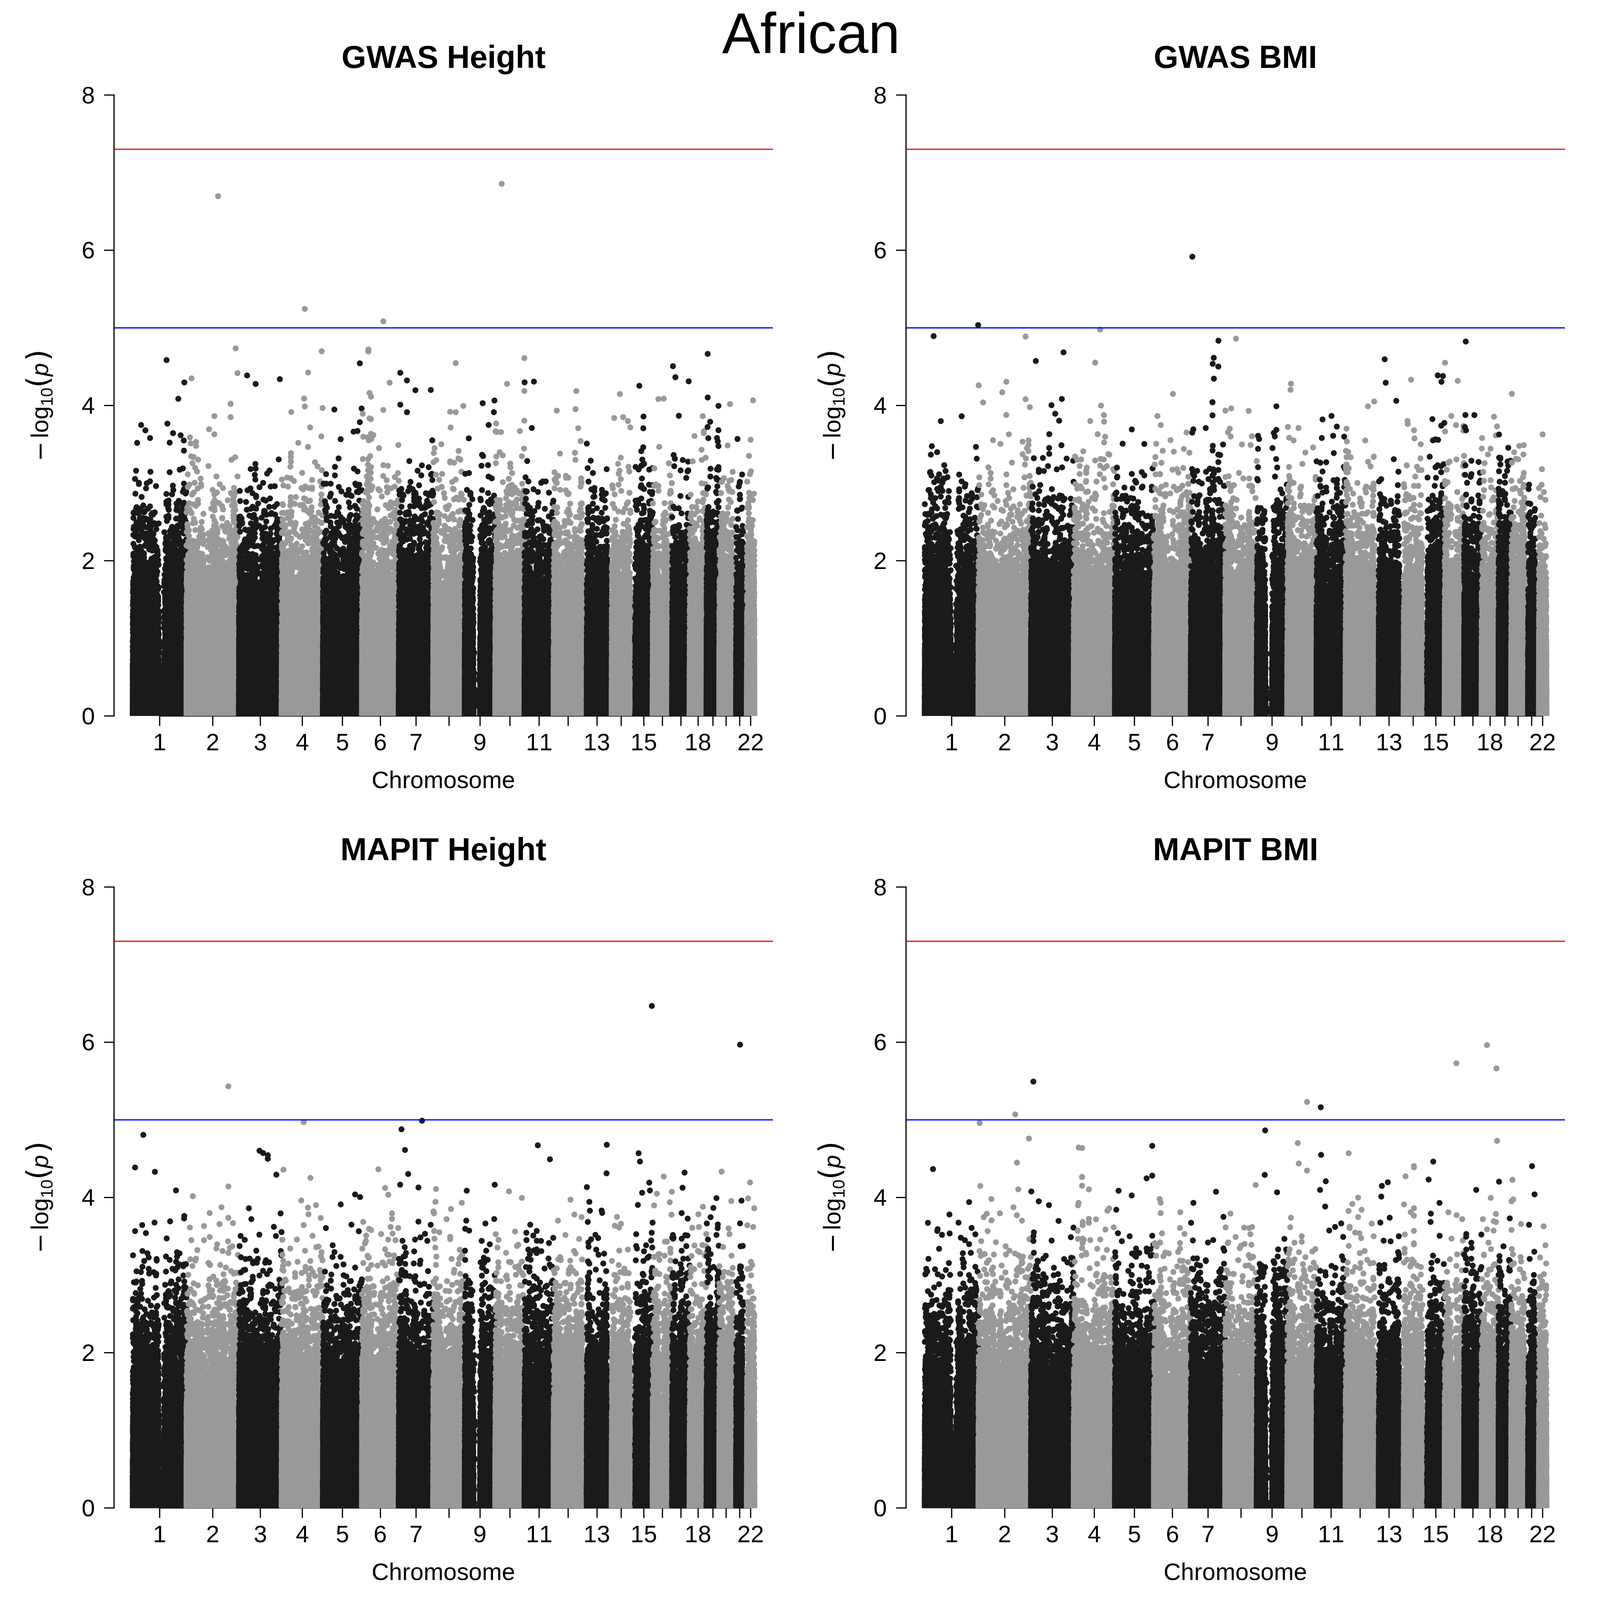
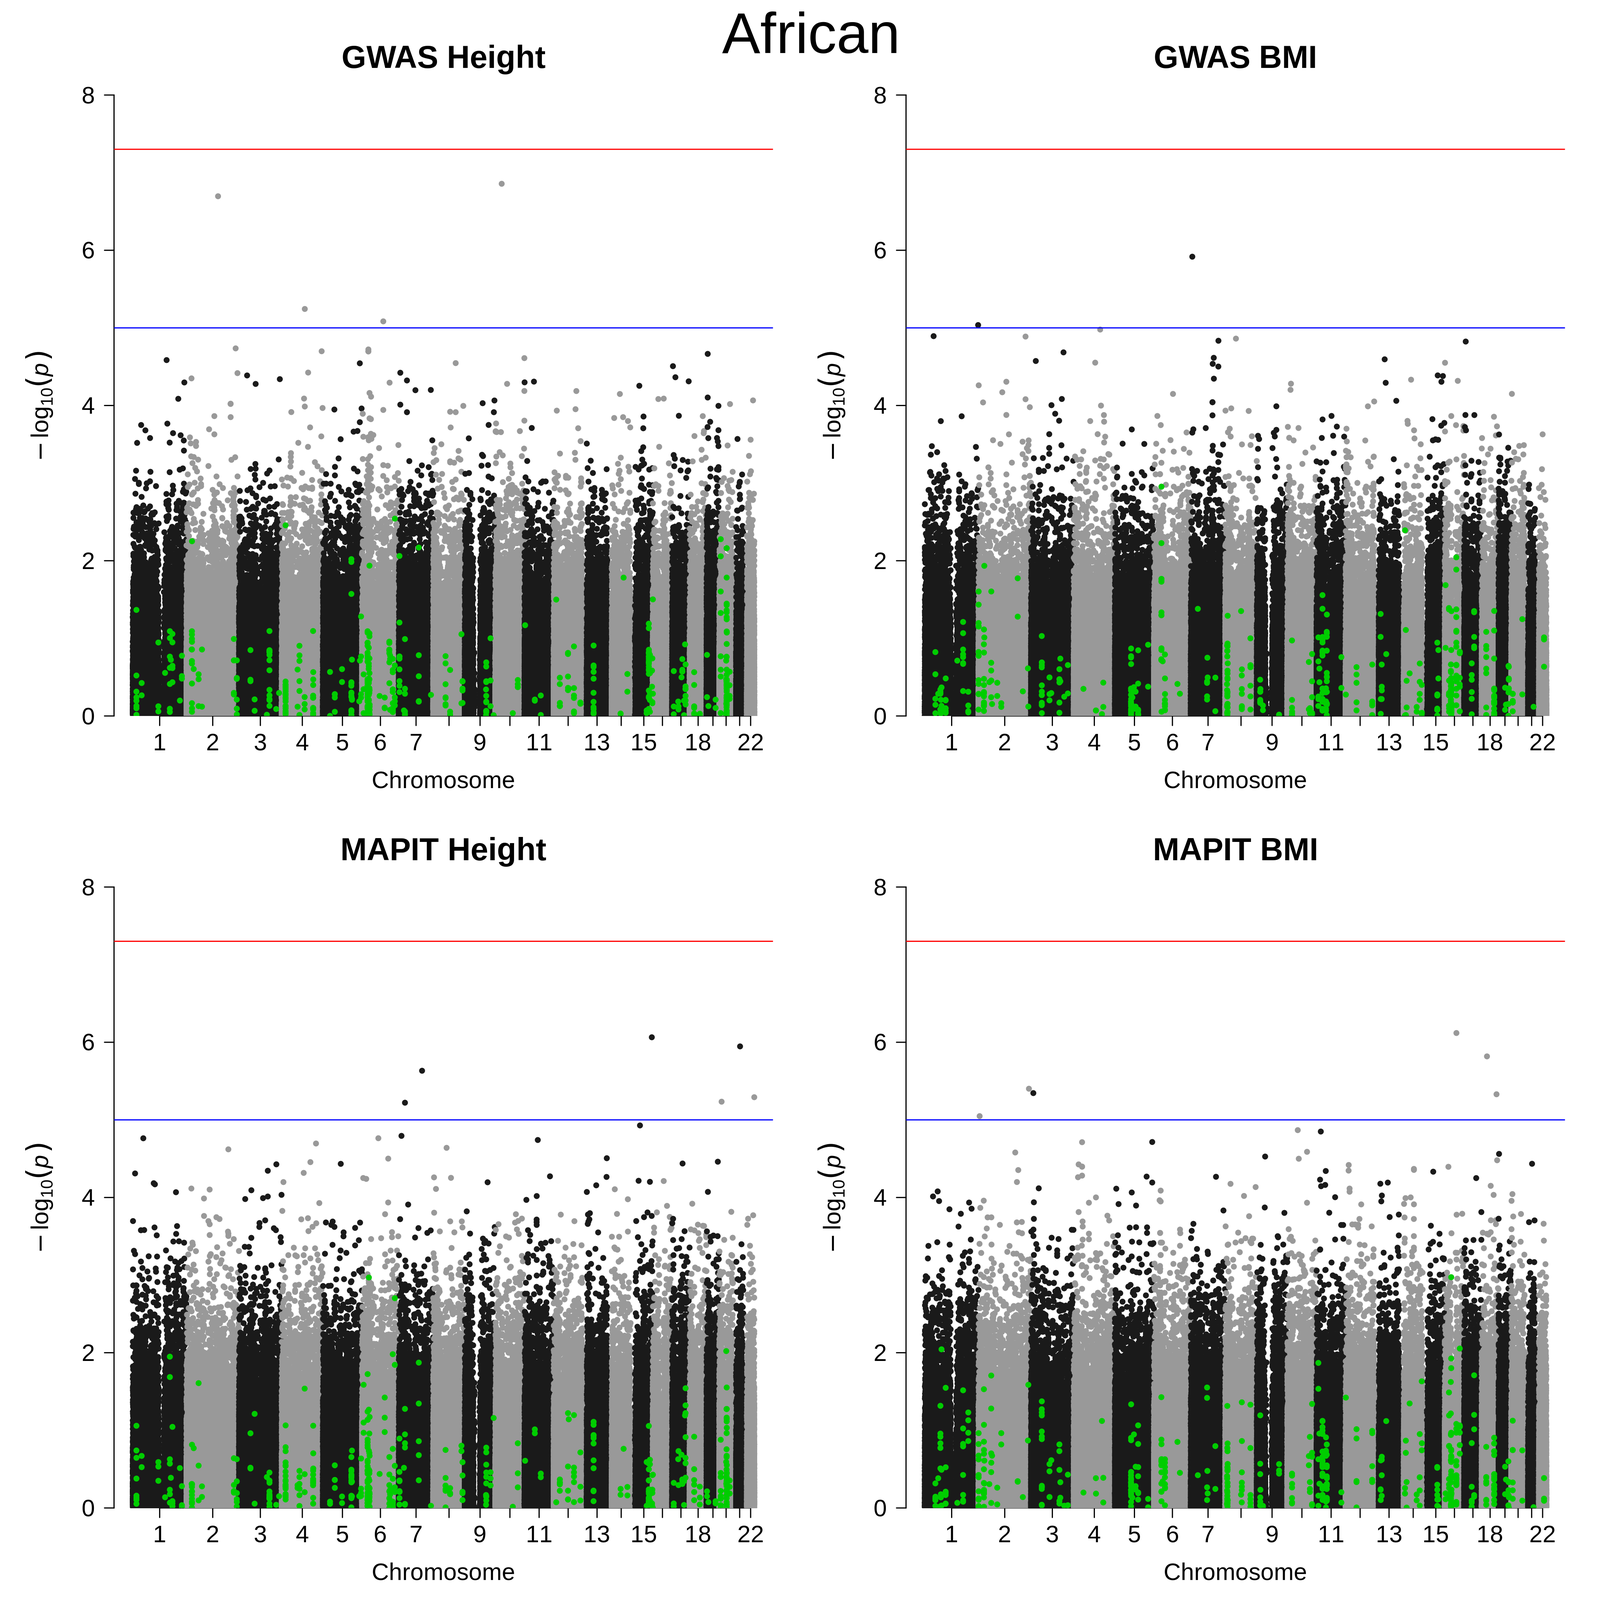
general updates (figures, comments)

diff --git a/Main.tex b/Main.tex
@@ -199,7 +199,7 @@ Running MAPIT on our four population subsets for both height and BMI, we find th
 \label{InterPath-Main-Figure-MAPIT}
 \end{figure}
 
-Running a GWAS of height and BMI on each of our population subsets with PLINK, we once again find zero genome-wide significant hit (Figure \ref{InterPath-Main-Figure-GWAS}). And further similarly to before, we also find a handful of marginally significant variants. More interestingly however, we now ask how similar the MAPIT and GWAS results are. And indeed, comparing the two sets of genome-wide analyzes, we see a wide range of different genetic architecture patterns being represented (Figure \ref{InterPath-Main-Figure-MAPITvsGWAS} \& Supplementary Figure \ref{} \textcolor{red}{this will be all the population results}). Focusing on the African subset and height, we find XX SNPs that are only marginally significant in MAPIT, XX SNPs that are only marginally significant in the GWAS, and 0 SNPs that are marginally significant in both tests. Despite the lack of power to identify genome-wide significant results, we still see a strong representation of the partition of additive and epistatic effects in our results. 
+Running a GWAS of height and BMI on each of our population subsets with PLINK, we find only one genome-wide significant hit (height in British.Ran4000; Figure \ref{InterPath-Main-Figure-GWAS}). And further similarly to before, we also find a handful of marginally significant variants. More interestingly however, we now ask how similar the MAPIT and GWAS results are. And indeed, comparing the two sets of genome-wide analyzes, we see a wide range of different genetic architecture patterns being represented (Figure \ref{InterPath-Main-Figure-MAPITvsGWAS} \& Supplementary Figure \ref{} \textcolor{red}{this will be all the population results}). Focusing on the African subset and height, we find XX SNPs that are only marginally significant in MAPIT, XX SNPs that are only marginally significant in the GWAS, and 0 SNPs that are marginally significant in both tests. Despite the lack of power to identify genome-wide significant results, we still see a strong representation of the partition of additive and epistatic effects in our results. 
 
 \begin{figure}[htbp]
 \centering
@@ -210,21 +210,20 @@ Running a GWAS of height and BMI on each of our population subsets with PLINK, w
 
 \begin{figure}[htbp]
 \centering
-\includegraphics[scale=1]{Images/Main/InterPath_Main_Figure_MAPITvsGWAS_vs1.png}
-\caption[TBD]{\textbf{MAPIT vs. GWAS Results}.}
+\includegraphics[scale=1]{Images/Main/InterPath_Main_Figure_MAPITvsGWAS_vs1_edits.png}
+\caption[TBD]{\textbf{MAPIT vs. GWAS Results}. Green dots are the 500 SNPs that have the most significant GIANT/UKB p-values.}
 \label{InterPath-Main-Figure-MAPITvsGWAS}
 \end{figure}
 
-\textcolor{red}{NOTE: below is what we were expecting for these results. But as you can see, the GIANT height/bmi results don't align in the way were anticipating. They are more spread out between height and BMI. I have checked though that the GIANT p-values of these top 500 SNPs are more correalted with our GWAS p-values than our MAPIT p-values (like ~.17 vs. .05). 
+\textcolor{red}{(NOTE: below is what we were expecting for these results. But as you can see, the GIANT height/bmi results don't align in the way were anticipating. They are more spread out between height and BMI. I have checked though that the GIANT p-values of these top 500 SNPs are more correalted with our GWAS p-values than our MAPIT p-values (like ~.17 vs. .05). 
+I think one alternative approach to this section is to angle instead as: 'we do not have power to even see a difference in GWAS vs. MAPIT as we were anticipating, thus indicating our real need to increase power. Hence, we moved forward with a method that we believed was going to accomplish that').}
 
-I think one alternative approach to this section is to angle instead as: 'we do not have power to even see a difference in GWAS vs. MAPIT as we were anticipating, thus indicating our real need to increase power. Hence, we moved forward with a method that we believed was going to accomplish that').
-}
-To help further get a sense of whether these results are revealing patterns in true biology, we also annotated the top 500 SNPs with the most significant height and BMI GWAS $p$-values from the 2018 GIANT and UKB meta-analysis \ref{Yengo2018} in both our GWAS and MAPIT results. As expected, these 500 SNPs are heavily represented among the tail end of the most significant GWAS results, but maybe less expected is just how insignificant these SNPs appear on the MAPIT list of top results (\textcolor{red}{Supplementary Table \ref{} -- listing differences in ranking of these 20 SNPs between GWAS and MAPIT}). In fact looking across the genome it is easy to see how different the relative ranking of SNPs are between the GWAS and MAPIT results (Figures \ref{InterPath-Main-Figure-MAPITvsGWAS-Manhattan}C \& \ref{InterPath-Main-Figure-MAPITvsGWAS-Manhattan}D). It is clear that even with our limited sample sizes, differences in the trends of importance of additive versus epistatic signals can be observed among marginally significant SNPs.  
+To help further get a sense of whether these results are revealing patterns in true biology, we also annotated the top 500 SNPs with the most significant height and BMI GWAS $p$-values from the 2018 GIANT and UKB meta-analysis \ref{Yengo2018} in both our GWAS and MAPIT results. As expected, these 500 SNPs are heavily represented among the tail end of the most significant GWAS results, but maybe less expected is just how insignificant these SNPs appear on the MAPIT list of top results (\textcolor{red}{Supplementary Table \ref{} -- listing differences in ranking of these 500 SNPs between GWAS and MAPIT}). In fact looking across the genome it is easy to see how different the relative ranking of SNPs are between the GWAS and MAPIT results (Figures \ref{InterPath-Main-Figure-MAPITvsGWAS-Manhattan}D \& \ref{InterPath-Main-Figure-MAPITvsGWAS-Manhattan}E). It is clear that even with our limited sample sizes, differences in the trends of importance of additive versus epistatic signals can be observed among marginally significant SNPs.  
 
 \begin{figure}[htbp]
 \centering
 \includegraphics[scale=.35]{Images/Main/InterPath_Main_Figure_MAPITvsGWAS_Manhattan_vs1.png}
-\caption[TBD]{\textbf{MAPIT \& GWAS Manhattan Plots}. \textcolor{red}{will be just height, MAPIT on top, GWAS on bottom, each plot wider}}
+\caption[TBD]{\textbf{MAPIT \& GWAS Manhattan Plots}. \textcolor{red}{will be just height, MAPIT on top (D), GWAS on bottom (E), each plot wider. Green dots are the 500 SNPs that have the most significant GIANT/UKB p-values.}}
 \label{InterPath-Main-Figure-MAPITvsGWAS-Manhattan}
 \end{figure}
 
@@ -250,7 +249,7 @@ where now R is a new random effects term that represents our new group of SNPs R
 
 Beyond extending our marginal epistasis model, we also expanded the number of UKB data subsets we analyzed given our encouraging results at the single SNP level. Specifically, we added UKB subsets consisting of Chinese, Pakistani, and Irish ancestry, as well as a second random subset of British individuals representing a larger sample size of close to 10,000 individuals. Both the Irish and new, second British subsets represent large sample size subsets to test how our model performs as sample size increases. Lastly, we chose to analyze the KEGG and REACTOME pathways available from the MSigDB \citep{Liberzon2011} due to their coverage of a wide range of biological processes. 
 
-Running InterPath on our UKB subsets across height and BMI, we find a major increase in our power to detect marginal epistasis. In total across each population subset, phenotype, and pathway database combination, we identified XXX significant genetic interactions between a pathway and the remaining genomic background (Figure \ref{InterPath-Main-Figure-Barplots} and Supplementary Table \ref{}; $p$-value significance thresholds were determined using Bonferroni multiple testing correction based on the number of pathways tested per analysis). We see both variation in our ability to detect marginal epistasis across our population subsets as well as a much stronger ability to pick up signals in our African subset. Additionally, conducting an analysis run with permuted phenotypes shows that InterPath behaves as expected under the null (Supplementary Figures \ref{InterPath-Supp-Figure-QQPlots-KEGG} \& \ref{InterPath-Supp-Figure-pValHists}), and we observe FDR estimates ranging from 0 to XX across our different ancestry, phenotype, and pathway database combinations (Supplementary Tables \ref{InterPath-Supp-Figure-FDR-AllPops} \textcolor{red}{this will be a table}).
+Running InterPath on our UKB subsets across height and BMI, we find a major increase in our power to detect marginal epistasis. In total across each population subset, phenotype, and pathway database combination, we identified XXX significant genetic interactions between a pathway and the remaining genomic background (Figure \ref{InterPath-Main-Figure-Barplots} and \textcolor{red}{Supplementary Table \ref{} -- idea is tables of every significant pathway for each ancestry with some additional information, like number of genes and snps used in each pathway}; $p$-value significance thresholds were determined using Bonferroni multiple testing correction based on the number of pathways tested per analysis). We see both variation in our ability to detect marginal epistasis across our population subsets as well as a much stronger ability to pick up signals in our African subset. Additionally, conducting an analysis run with permuted phenotypes shows that InterPath behaves as expected under the null (Supplementary Figures \ref{InterPath-Supp-Figure-QQPlots-KEGG} \& \ref{InterPath-Supp-Figure-pValHists}), and we observe FDR estimates ranging from 0 to XX across our different ancestry, phenotype, and pathway database combinations (Supplementary Tables \ref{InterPath-Supp-Figure-FDR-AllPops} \textcolor{red}{this will be a table}).
 
 \begin{figure}[htbp]
 \centering
@@ -270,16 +269,9 @@ Looking at the specific pathways that we observe as having significant evidence 
 \label{InterPath-Main-Figure-Heatplots-KEGG}
 \end{figure}
 
-\begin{figure}[htbp]
-\centering
-\includegraphics[scale=.15]{Images/Main/InterPath_Main_PopCompDotPlots_African_vs1.png}
-\caption[]{\textbf{InterPath Cross-Population KEGG $p$-value Comparisons: African}. Shown are comparisons of each population subset's InterPath $p$-value for Height and BMI in KEGG against the African subset's InterPath $p$-values. On the $x$-axis are the African subset's observed -$\log_{10}$ $p$-value and on the $y$-axis is the other population's observed -$\log_{10}$ $p$-value. Dotted red lines represent Bonferroni-corrected $p$-value thresholds for each population/phenotype combination.}
-\label{InterPath-Main-Figure-PopCompDotPlots}
-\end{figure}
+As previously mentioned, we observe that genome-wide significant pathways across subsets tend to be the pathways with the largest numbers of SNPs. While this is not surprising given that these are the pathways which potentially have the most power to identify a positive signal, we only have a limited number of these types of pathways to compare against one another; it is unclear if these particular pathways represent interesting biology specific to our complex traits or are moreso indicative of there being widespread, but indiscriminate, epistasis across the genome. One approach to decouple significant pathways from having a large number of SNPs is to simply look at the collection of top pathways with the least number of SNPs. For example, we observe XX number of pathways in the African BMI REACTOME analysis that included less than 1000 SNPs. To identify whether there are common biological underpinnings across these pathways, we first looked at whether any groups of genes were enriched across these pathways. And indeed, we observe for many genes that are highly represented across these pathways, that they are significantly enriched (\textcolor{red}{Supplementary Table XX -- table with a list of these genes}).
 
-As previously mentioned, we observe that genome-wide significant pathways across subsets tend to be the pathways with the largest numbers of SNPs. While this is not surprising given that these are the pathways which potentially have the most power to identify a positive signal, we only have a limited number of these types of pathways to compare against one another; it is unclear if these particular pathways represent interesting biology specific to our complex traits or are moreso indicative of there being widespread, but indiscriminate, epistasis across the genome. One approach to decouple significant pathways from having a large number of SNPs is to simply look at the collection of top pathways with the least number of SNPs. For example, we observe XX number of pathways in the African BMI REACTOME analysis that included less than 1000 SNPs. To identify whether there are common biological underpinnings across these pathways, we first looked at whether any groups of genes were enriched across these pathways. And indeed, we observe for many genes that are highly represented across these pathways, that they are significantly enriched (Supplementary Table XX).
-
-However, the hypergeometric test that underlies these enrichment results assumes independence between pathways, and we know that to not be the case. To get a better sense of what our expectations for the results should be, we instead reran these analyses using the full set of significant pathways, not just those with SNP counts below 1000. Our hypothesis is that if the full set of results are confounded by some pathways just having many more SNPs than real biological signals, the noise-to-signal ratio should get worse for the genes that represented true biology. And indeed when we rerun this analysis, we observe for a specific group of genes, those related to the proteasome complex, that their enrichment $p$-values become less significant going from the more refined set of smaller significant pathways to the more general set of total significant pathways. These genes represent XXX and XXX of the proteasome complex, a catalytic protein structure that is essential to the ubiquitination degradation pathway. Interestingly, the proteasome may be a reasonable candidate for having biologically important genetic interactions with the rest of the genome -- it is likely to be involved with a large number of distinct biological processes, though always in the same capacity. It is possibly unsurprising then that we find this gene enrichment in BMI and not height, since metabolism inherently involves the degradation of molecules. 
+However, the hypergeometric test that underlies these enrichment results assumes independence between pathways, and we know that to not be the case. To get a better sense of what our expectations for the results should be, we instead reran these analyses using the full set of significant pathways, not just those with SNP counts below 1000. Our hypothesis is that if the full set of results are confounded by some pathways just having many more SNPs than real biological signals, the noise-to-signal ratio should get worse for the genes that represented true biology. And indeed when we rerun this analysis, we observe for a specific group of genes, those related to the proteasome complex, that their enrichment $p$-values become less significant going from the more refined set of smaller significant pathways to the more general set of total significant pathways (\textcolor{red}{Supplementary Table XX -- table showing the hypergeometric p-values of these genes going from the more refined, lower SNP-count set to the more general, full SNP-count set)}. These genes represent XXX and XXX of the proteasome complex, a catalytic protein structure that is essential to the ubiquitination degradation pathway. Interestingly, the proteasome may be a reasonable candidate for having biologically important genetic interactions with the rest of the genome -- it is likely to be involved with a large number of distinct biological processes, though always in the same capacity. It is possibly unsurprising then that we find this gene enrichment in BMI and not height, since metabolism inherently involves the degradation of molecules. 
 
 %To further look into these proteasome genes, we...
 

diff --git a/Supplementary.tex b/Supplementary.tex
@@ -93,6 +93,13 @@ After this first round of QC procedures, we then proceeded to impute our current
 
 \begin{figure}[htbp]
 \centering
+\includegraphics[scale=.15]{Images/Main/InterPath_Main_PopCompDotPlots_African_vs1.png}
+\caption[]{\textbf{InterPath Cross-Population KEGG $p$-value Comparisons: African}. Shown are comparisons of each population subset's InterPath $p$-value for Height and BMI in KEGG against the African subset's InterPath $p$-values. On the $x$-axis are the African subset's observed -$\log_{10}$ $p$-value and on the $y$-axis is the other population's observed -$\log_{10}$ $p$-value. Dotted red lines represent Bonferroni-corrected $p$-value thresholds for each population/phenotype combination.}
+\label{InterPath-Main-Figure-PopCompDotPlots}
+\end{figure}
+
+\begin{figure}[htbp]
+\centering
 \includegraphics[scale=.15]{Images/Supp/InterPath_Supp_PhenoCompDotPlots_vs1.png}
 \caption[TBD]{\textbf{InterPath Phenotype $p$-value Comparisons}. \\ Shown is a comparison of the InterPath $p$-values for both phenotypes analyzed across all population subsets in the KEGG database. Shown on the $x$-axis is the observed height -$\log_{10}$ InterPath $p$-value and shown on the $y$-axis is the observed BMI -$\log_{10}$ InterPath $p$-value. Dotted red lines represent Bonferroni-corrected $p$-value thresholds for each population/phenotype combination (.05 / number of KEGG pathways analyzed). In general we observe a correlation between InterPath $p$-values between each phenotype. In the African subset, where we have the most observed power, we find pathways that are significant in both phenotypes as well as each phenotype separately. Additionally, we observe, among marginally significant pathways, stronger InterPath signals in BMI than height -- this is in line with previous observations that BMI may contain higher levels of epistasis than height (citations).}
 \label{InterPath-Supp-Figure-PhenoCompDotPlots}
